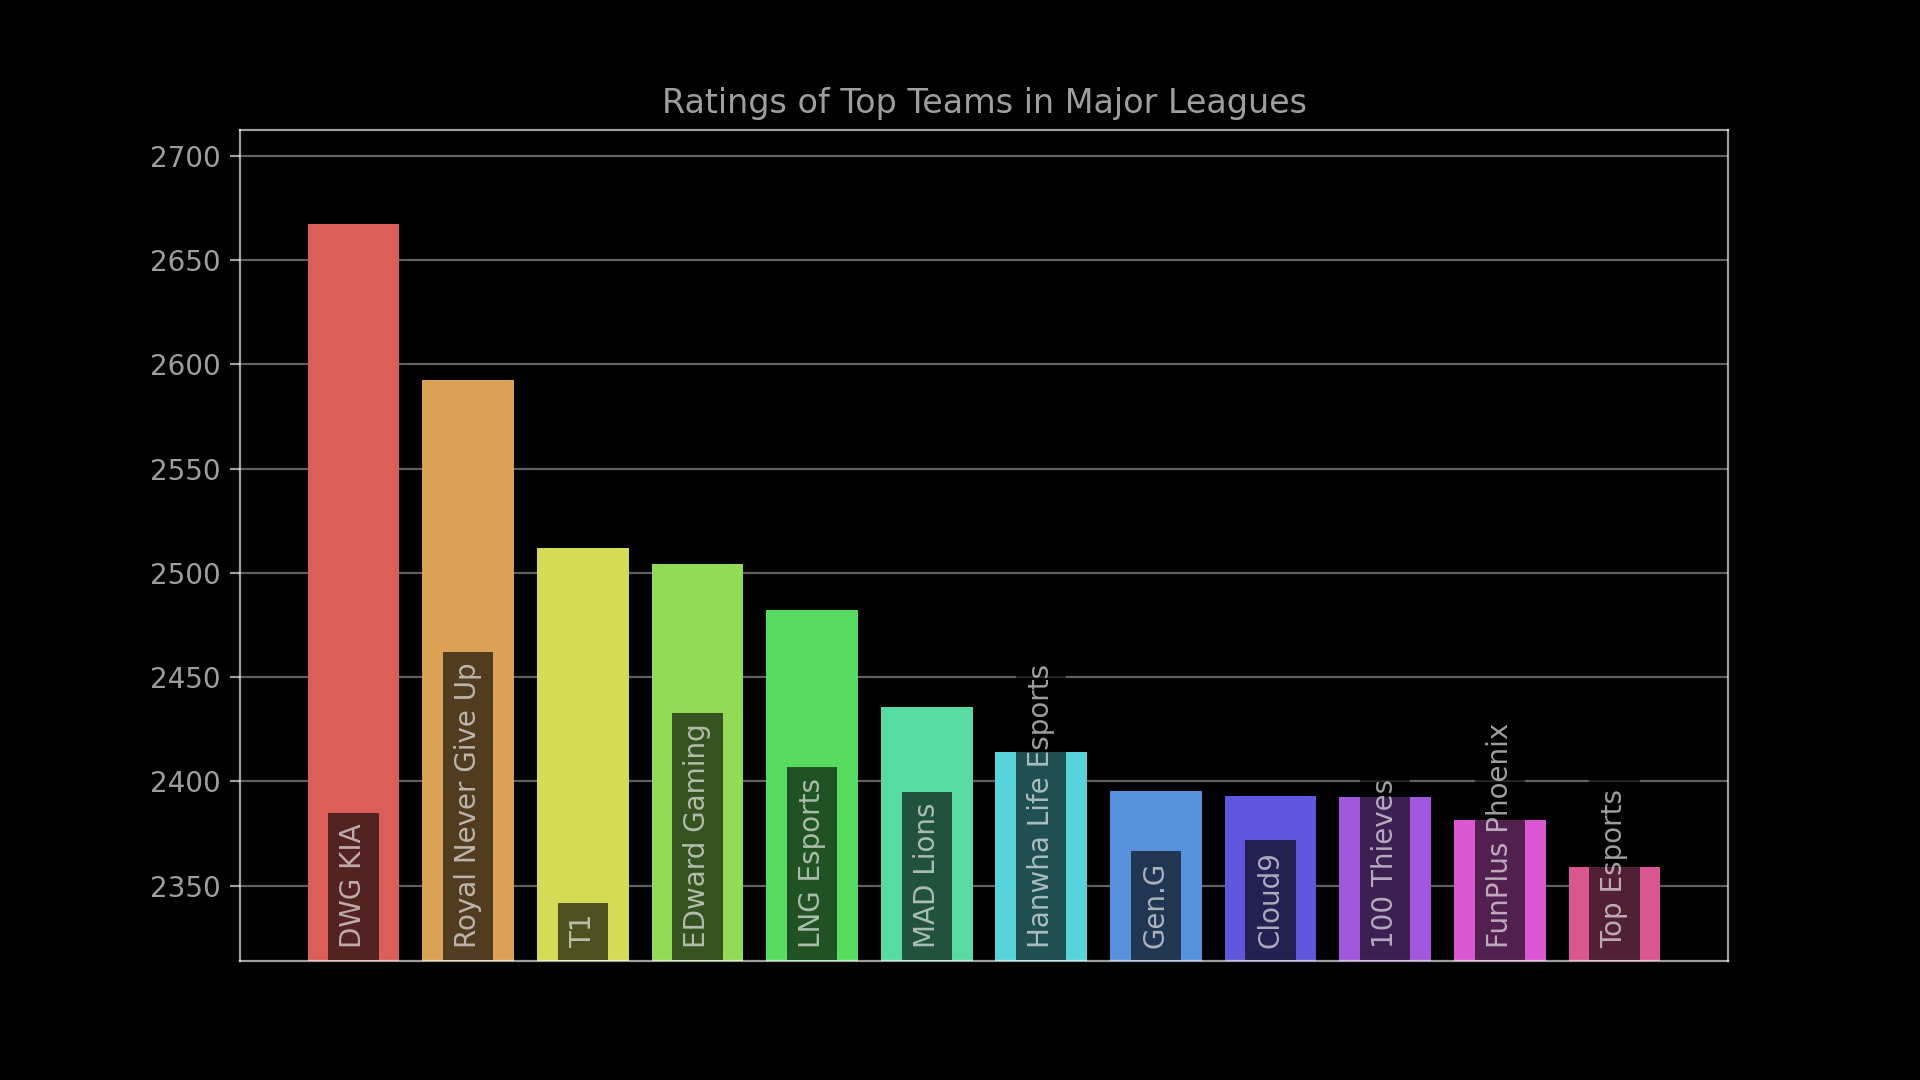
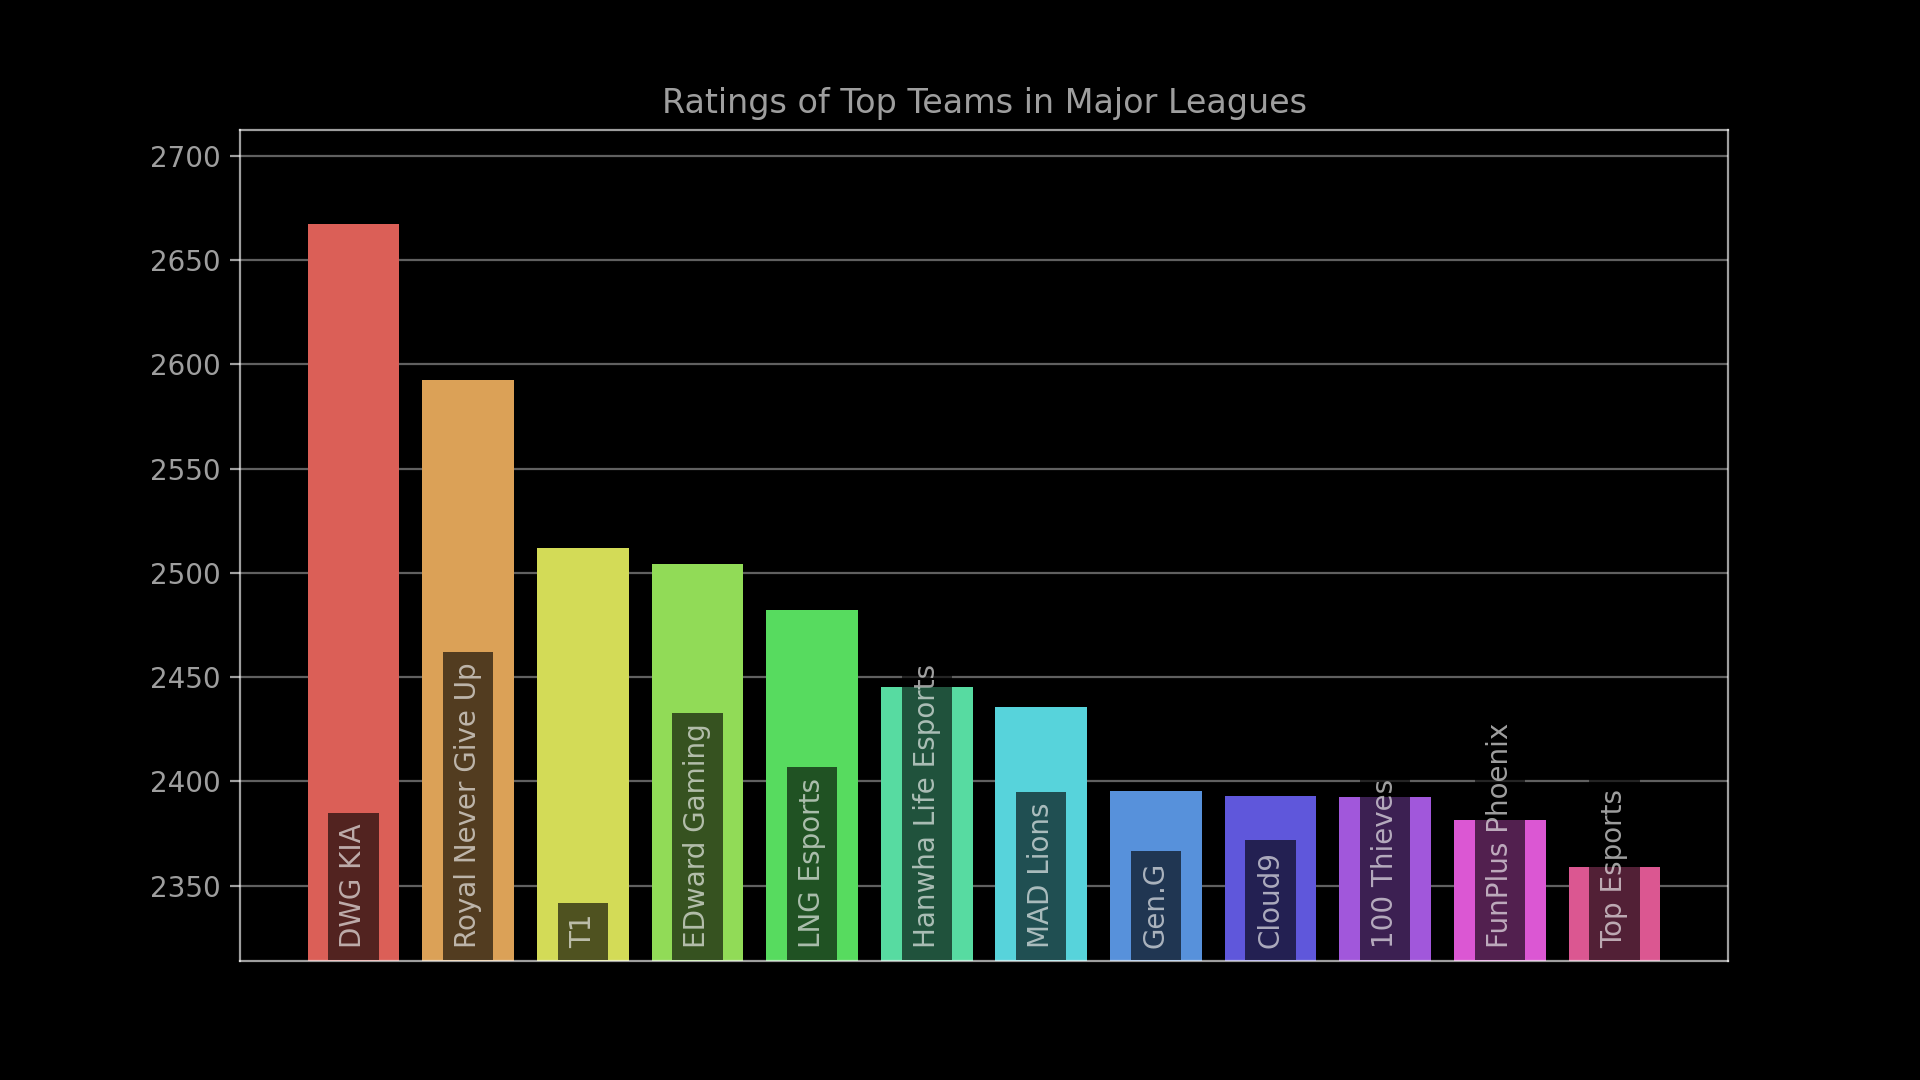
Update rating charts for 2021-10-17 13:00:00.

Changed region(s): [[0.4375, 0.6111, 0.5625, 0.8861]]

diff --git a/index.html b/index.html
@@ -78,12 +78,12 @@
             <tbody class="list">
                 <tr><td style="text-align: right">1</td><td class="name">DWG KIA</td><td class="league" style="text-align: center">LCK</td><td class="rating" style="text-align: center">2667.5</td><td class="diff" style="text-align: center; white-space: nowrap"><span style="color: #4CAF50">&plus;105.2</span></td></tr>
             <tr><td style="text-align: right">2</td><td class="name">Royal Never Give Up</td><td class="league" style="text-align: center">LPL</td><td class="rating" style="text-align: center">2592.6</td><td class="diff" style="text-align: center; white-space: nowrap"><span style="color: #4CAF50">&plus;66.9</span></td></tr>
-            <tr><td style="text-align: right">3</td><td class="name">PSG Talon</td><td class="league" style="text-align: center">PCS</td><td class="rating" style="text-align: center">2521.6</td><td class="diff" style="text-align: center; white-space: nowrap"><span style="color: #4CAF50">&plus;44.6</span></td></tr>
-            <tr><td style="text-align: right">4</td><td class="name">T1</td><td class="league" style="text-align: center">LCK</td><td class="rating" style="text-align: center">2511.7</td><td class="diff" style="text-align: center; white-space: nowrap"><span style="color: #4CAF50">&plus;98.2</span></td></tr>
-            <tr><td style="text-align: right">5</td><td class="name">EDward Gaming</td><td class="league" style="text-align: center">LPL</td><td class="rating" style="text-align: center">2504.1</td><td class="diff" style="text-align: center; white-space: nowrap"><span style="color: #F44336">&minus;32.3</span></td></tr>
-            <tr><td style="text-align: right">6</td><td class="name">LNG Esports</td><td class="league" style="text-align: center">LPL</td><td class="rating" style="text-align: center">2482.3</td><td class="diff" style="text-align: center; white-space: nowrap"><span style="color: #4CAF50">&plus;31.4</span></td></tr>
-            <tr><td style="text-align: right">7</td><td class="name">MAD Lions</td><td class="league" style="text-align: center">LEC</td><td class="rating" style="text-align: center">2435.8</td><td class="diff" style="text-align: center; white-space: nowrap"><span style="color: #F44336">&minus;37.7</span></td></tr>
-            <tr><td style="text-align: right">8</td><td class="name">Hanwha Life Esports</td><td class="league" style="text-align: center">LCK</td><td class="rating" style="text-align: center">2414.0</td><td class="diff" style="text-align: center; white-space: nowrap"><span style="color: #F44336">&minus;27.0</span></td></tr>
+            <tr><td style="text-align: right">3</td><td class="name">T1</td><td class="league" style="text-align: center">LCK</td><td class="rating" style="text-align: center">2511.7</td><td class="diff" style="text-align: center; white-space: nowrap"><span style="color: #4CAF50">&plus;98.2</span></td></tr>
+            <tr><td style="text-align: right">4</td><td class="name">EDward Gaming</td><td class="league" style="text-align: center">LPL</td><td class="rating" style="text-align: center">2504.1</td><td class="diff" style="text-align: center; white-space: nowrap"><span style="color: #F44336">&minus;32.3</span></td></tr>
+            <tr><td style="text-align: right">5</td><td class="name">LNG Esports</td><td class="league" style="text-align: center">LPL</td><td class="rating" style="text-align: center">2482.3</td><td class="diff" style="text-align: center; white-space: nowrap"><span style="color: #4CAF50">&plus;31.4</span></td></tr>
+            <tr><td style="text-align: right">6</td><td class="name">PSG Talon</td><td class="league" style="text-align: center">PCS</td><td class="rating" style="text-align: center">2471.3</td><td class="diff" style="text-align: center; white-space: nowrap"><span style="color: #F44336">&minus;5.7</span></td></tr>
+            <tr><td style="text-align: right">7</td><td class="name">Hanwha Life Esports</td><td class="league" style="text-align: center">LCK</td><td class="rating" style="text-align: center">2445.0</td><td class="diff" style="text-align: center; white-space: nowrap"><span style="color: #4CAF50">&plus;4.1</span></td></tr>
+            <tr><td style="text-align: right">8</td><td class="name">MAD Lions</td><td class="league" style="text-align: center">LEC</td><td class="rating" style="text-align: center">2435.8</td><td class="diff" style="text-align: center; white-space: nowrap"><span style="color: #F44336">&minus;37.7</span></td></tr>
             <tr><td style="text-align: right">9</td><td class="name">Gen.G</td><td class="league" style="text-align: center">LCK</td><td class="rating" style="text-align: center">2395.6</td><td class="diff" style="text-align: center; white-space: nowrap"><span style="color: #4CAF50">&plus;31.1</span></td></tr>
             <tr><td style="text-align: right">10</td><td class="name">Cloud9</td><td class="league" style="text-align: center">LCS</td><td class="rating" style="text-align: center">2392.9</td><td class="diff" style="text-align: center; white-space: nowrap"><span style="color: #4CAF50">&plus;26.2</span></td></tr>
             <tr><td style="text-align: right">11</td><td class="name">100 Thieves</td><td class="league" style="text-align: center">LCS</td><td class="rating" style="text-align: center">2392.5</td><td class="diff" style="text-align: center; white-space: nowrap"><span style="color: #4CAF50">&plus;39.2</span></td></tr>

diff --git a/assets/js/chart-config.js b/assets/js/chart-config.js
@@ -3,10 +3,10 @@ const MONTH_ABBREVIATIONS = ["Jan", "Feb", "Mar", "Apr", "May", "Jun", "Jul", "A
 const topChartConfig = {
     type: "bar",
     data: {
-        labels: ['DWG KIA', 'Royal Never Give Up', 'T1', 'EDward Gaming', 'LNG Esports', 'MAD Lions', 'Hanwha Life Esports', 'Gen.G', 'Cloud9', '100 Thieves', 'FunPlus Phoenix', 'Top Esports'],
+        labels: ['DWG KIA', 'Royal Never Give Up', 'T1', 'EDward Gaming', 'LNG Esports', 'Hanwha Life Esports', 'MAD Lions', 'Gen.G', 'Cloud9', '100 Thieves', 'FunPlus Phoenix', 'Top Esports'],
         datasets: [{
             backgroundColor: ['#dc5f57', '#dca157', '#d4dc57', '#91dc57', '#57dc5f', '#57dca1', '#57d4dc', '#5791dc', '#5f57dc', '#a157dc', '#dc57d4', '#dc5791'],
-            data: [2667.475752135994, 2592.61501614084, 2511.6879446870657, 2504.142926627319, 2482.2936444367374, 2435.7814562964663, 2413.970867686532, 2395.5787621921963, 2392.8668374178997, 2392.5403855259237, 2381.7010883286844, 2358.8275642289427],
+            data: [2667.475752135994, 2592.61501614084, 2511.6879446870657, 2504.142926627319, 2482.2936444367374, 2445.011194624424, 2435.7814562964663, 2395.5787621921963, 2392.8668374178997, 2392.5403855259237, 2381.7010883286844, 2358.8275642289427],
             label: "Rating Points"
         }]
     },

diff --git a/README.md b/README.md
@@ -50,8 +50,8 @@ confidence interval of the rating.
 | 3 | T1 | 2511.7 | 73.4 |
 | 4 | EDward Gaming | 2504.1 | 76.2 |
 | 5 | LNG Esports | 2482.3 | 71.7 |
-| 6 | MAD Lions | 2435.8 | 86.2 |
-| 7 | Hanwha Life Esports | 2414.0 | 65.8 |
+| 6 | Hanwha Life Esports | 2445.0 | 66.8 |
+| 7 | MAD Lions | 2435.8 | 86.2 |
 | 8 | Gen.G | 2395.6 | 84.9 |
 | 9 | Cloud9 | 2392.9 | 60.3 |
 | 10 | 100 Thieves | 2392.5 | 74.4 |
